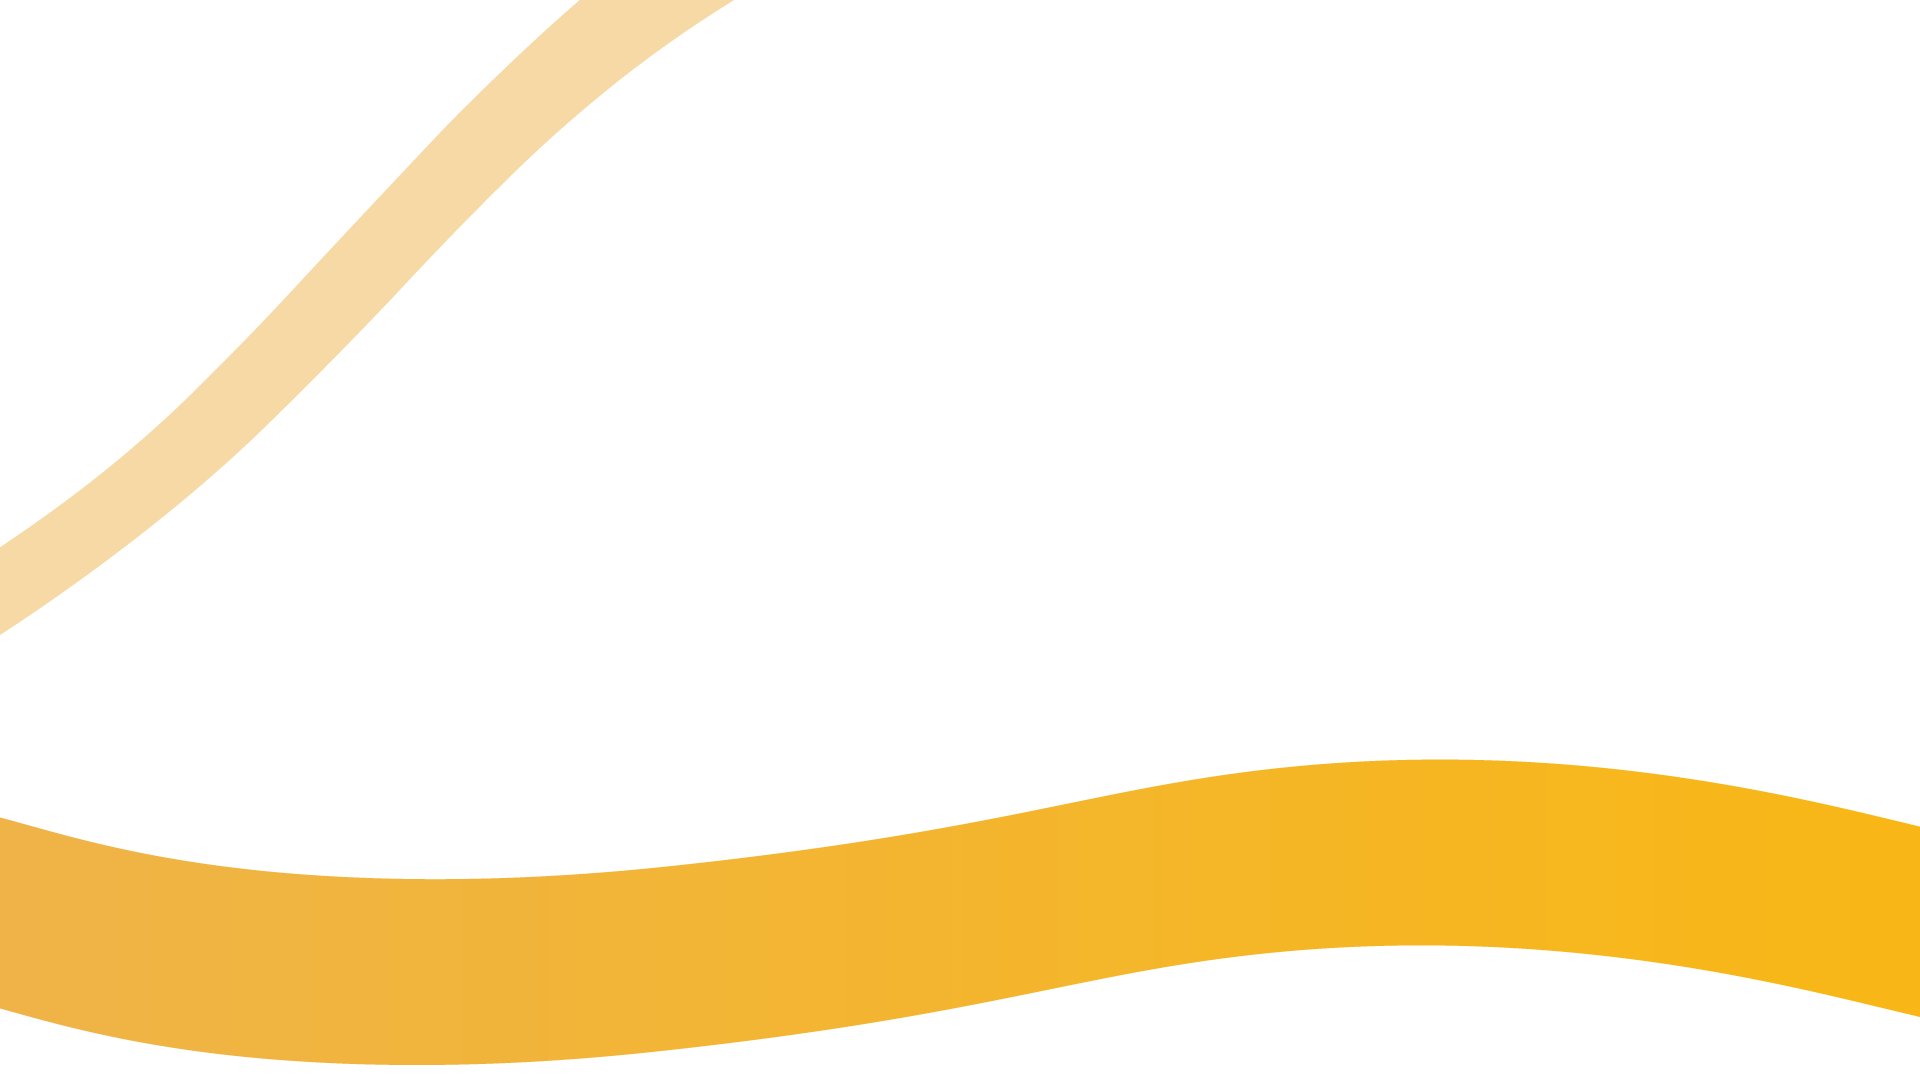
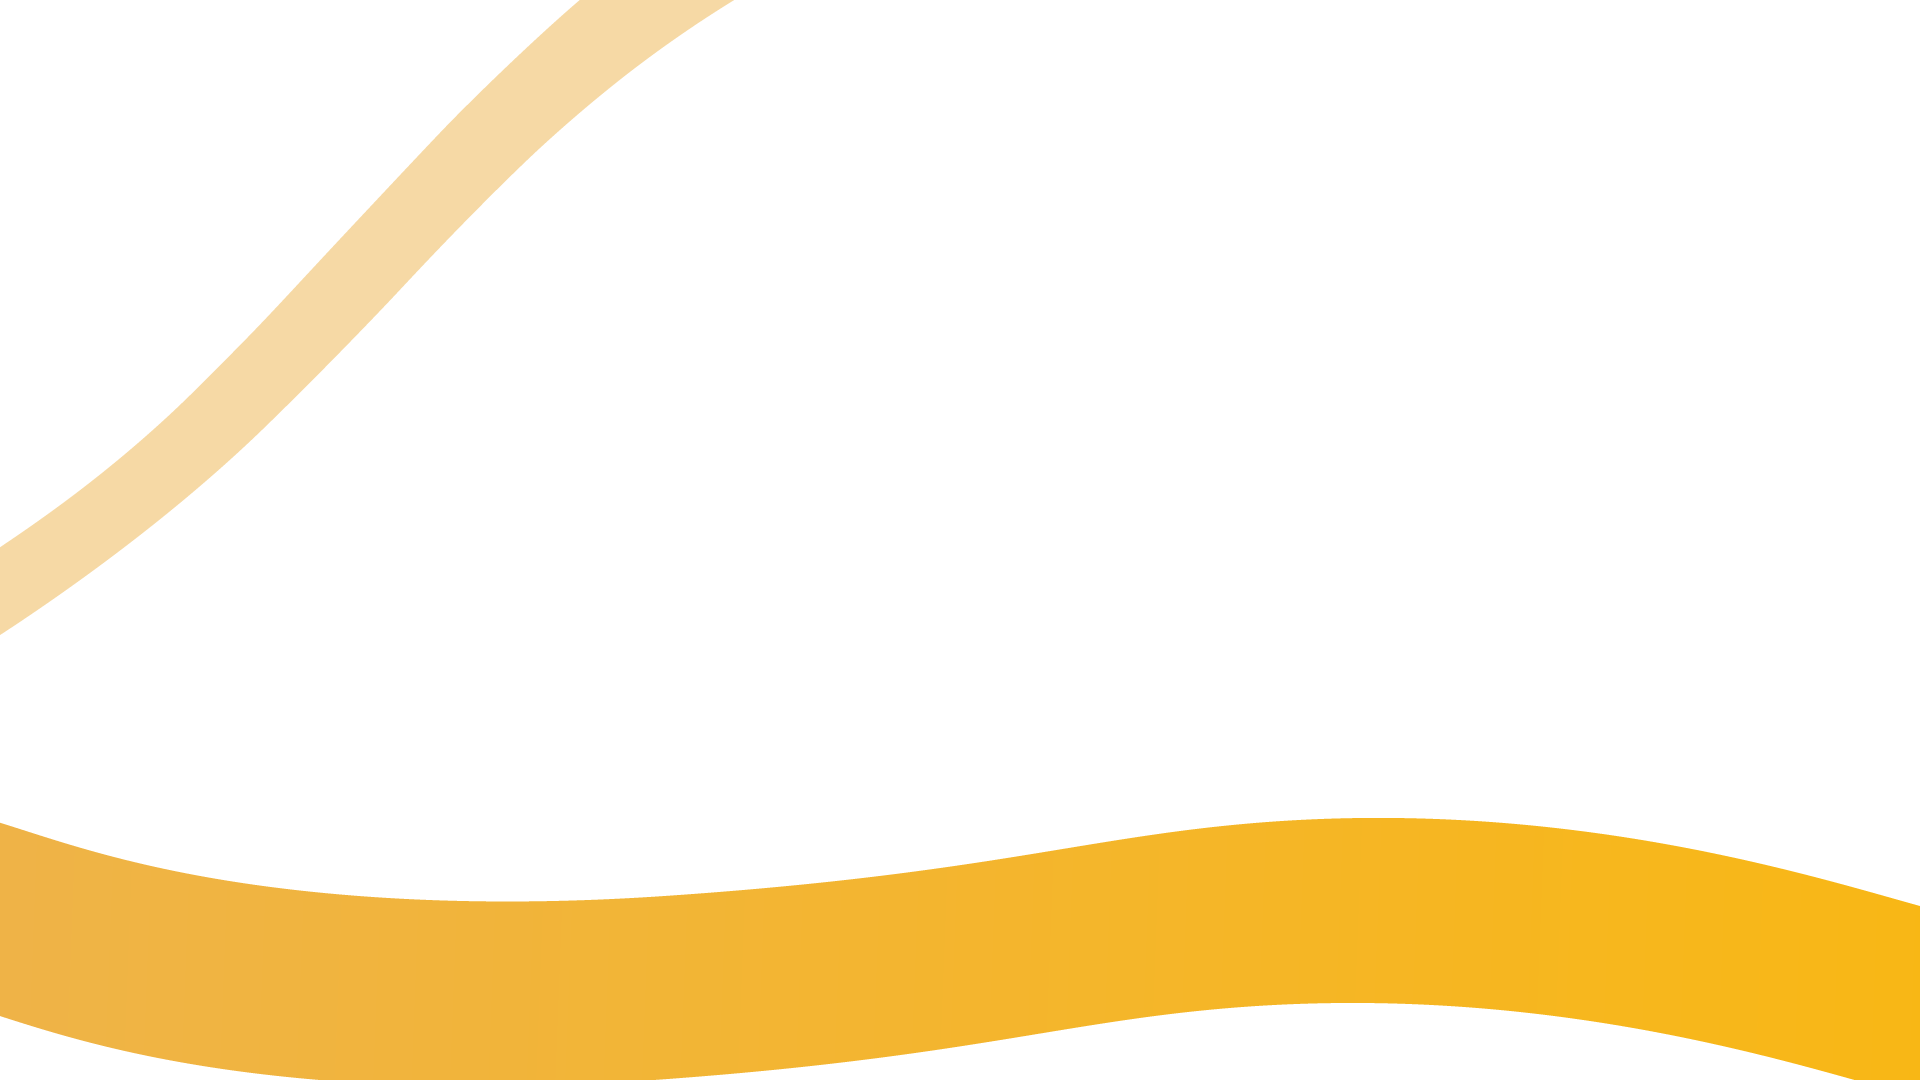
update responsive bg

Changed region(s): [[0.0, 0.8556, 1.0, 1.0], [0.0, 0.7028, 1.0, 0.8556]]

diff --git a/assets/css/style.css b/assets/css/style.css
@@ -311,8 +311,19 @@ section {
   .mobile-nav-toggle {
     display: block;
   }
+
   .navbar ul {
     display: none;
+  }
+}
+
+@media (min-width: 991px) {
+  .mobile-nav-toggle.bi-x {
+    display: block;
+  }
+
+  .navbar ul {
+    display: flex;
   }
 }
 
@@ -408,7 +419,7 @@ section {
 
 .hero {
   height: 100vh;
-  background: url(../img/Background-Hero.png) top center no-repeat;
+  background: url(../img/Background-Hero.png) top center no-repeat !important;
   background-size: cover;
   color: #4a7280;
   /* text-shadow: 1px 1px 5px rgba(0, 0, 0, 0.5); */
@@ -448,11 +459,25 @@ section {
   /* filter: drop-shadow(0px 2px 3px rgba(0, 0, 0, 0.4)); */
 }
 
-@media (max-width: 991px) {
+@media (min-width: 1200px) {
+  .hero {
+    background: url(../img/Background-Hero-992-1.png);
+    background-position: 0 0 !important;
+  }
+}
+
+@media (min-width: 992px) {
+  .hero {
+    background: url(../img/Background-Hero-992-1.png);
+    background-position: 0 0 !important;
+  }
+}
+
+@media (max-width: 992px) {
   .hero {
     height: auto;
-    padding: 120px 0 60px 0;
-    background-position: 0vh 20vh;
+    padding: 0 0 60px 0;
+    background-position: -5vh 0vh !important;
   }
   .hero .hero-img {
     text-align: center;
@@ -466,7 +491,7 @@ section {
 @media (max-width: 768px) {
   .hero {
     text-align: center;
-    background-position: -13vh 15vh;
+    background-position: -30vh -15vh !important;
   }
   .hero h1 {
     font-size: 32px;
@@ -480,14 +505,6 @@ section {
   .hero .hero-img img {
     margin-top: -20px;
     width: 100%;
-  }
-}
-
-@media (max-width: 992px) {
-  .hero {
-    background: url(../img/Background-Hero-992.png) no-repeat;
-    background-position: 0 15vh;
-    background-size: cover;
   }
 }
 
@@ -1547,7 +1564,7 @@ section {
 .filosofi {
   background-image: url(../img/bg-web-2.png);
   background-repeat: no-repeat no-repeat;
-  background-position: 0 -1vh;
+  /* background-position: 0 -2vh; */
   background-size: cover;
 }
 
@@ -1605,7 +1622,7 @@ section {
 
 @media screen and (max-width: 768px) {
   .filosofi {
-    background-position-y: -5vh;
+    background-position: -12vh -5vh !important;
   }
 
   .filosofi .logo-filosofi {

diff --git a/assets/js/main.js b/assets/js/main.js
@@ -119,6 +119,17 @@
       this.nextElementSibling.classList.toggle('dropdown-active')
     }
   }, true)
+
+  /**
+   * Mobile nav closed when click out of navbar
+   */
+  // $(document).click(function (event) {
+  //   var clickover = $(event.target);
+  //   var _opened = $(".navbar-mobile").hasClass("navbar-mobile");
+  //   if (_opened === true && !clickover.hasClass("mobile-nav-toggle")) {
+  //     $("i.mobile-nav-toggle").click();
+  //   }
+  // });
   
   /**
    * Scrool with offset on links with a class name .scrollto
